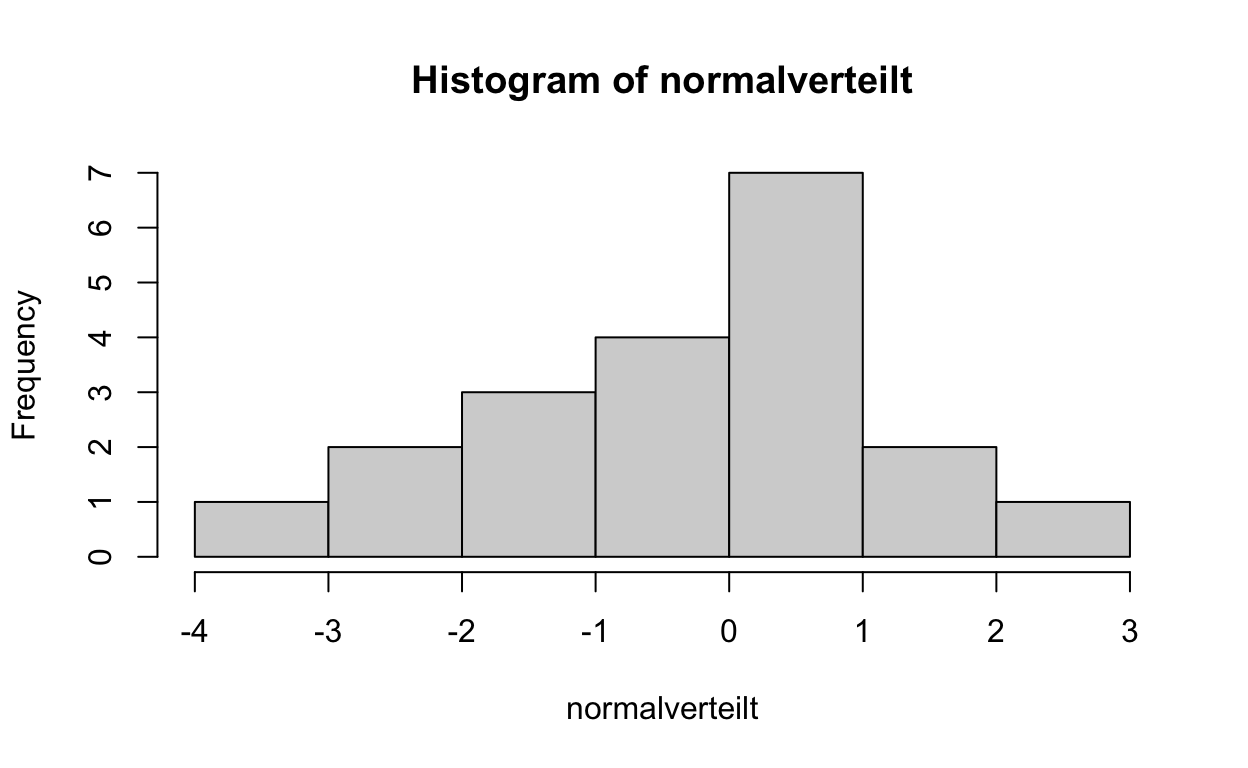
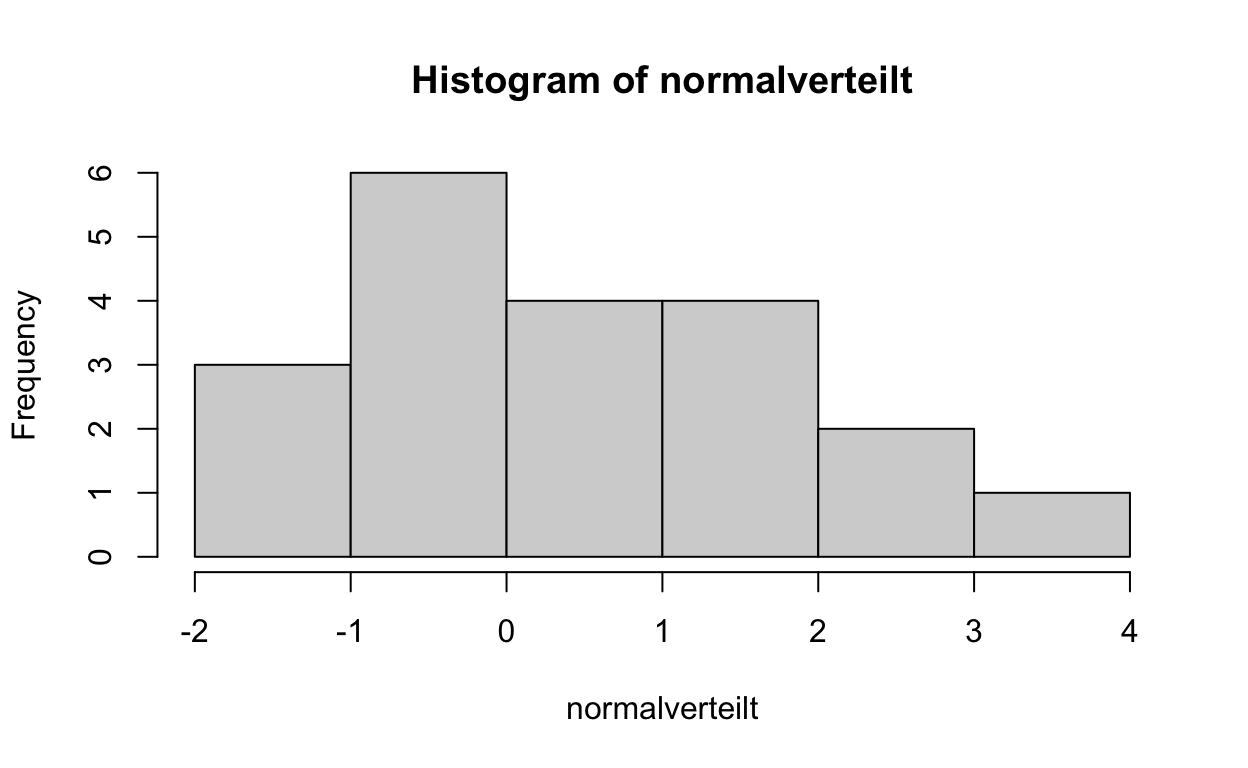
text changes

diff --git a/docs/Basic_R_VariabelsFunctions.html b/docs/Basic_R_VariabelsFunctions.html
@@ -2355,10 +2355,10 @@ $scores
 <div class="sourceCode">
 <pre class="sourceCode r"><code class="sourceCode r"><span><span class='fu'><a href='https://rdrr.io/r/stats/Normal.html'>rnorm</a></span><span class='op'>(</span>n <span class='op'>=</span> <span class='fl'>20</span>, mean <span class='op'>=</span> <span class='fl'>0</span>, sd <span class='op'>=</span> <span class='fl'>1</span><span class='op'>)</span> <span class='co'># randomly draws 20 values from the normal distribution with a mean of 0 and SD of 1</span></span></code></pre>
 </div>
-<pre><code> [1]  0.05563859 -0.68705393  0.17452564 -0.53579695 -2.06295594
- [6] -0.81087247 -0.28872412  1.76084565 -2.34157759 -0.60422497
-[11]  0.41889535 -0.70168969  0.20220263  0.60885878  1.20155105
-[16]  0.03441315 -0.85957818  1.26581442 -1.01452237 -0.64417201</code></pre>
+<pre><code> [1]  0.64184765  0.26744266 -0.17383683 -1.14661811 -0.06813239
+ [6]  1.04923463 -1.70198580  1.22994145  0.03167332  0.46845496
+[11] -0.16551904  1.36607048  0.43773262 -0.49868273 -1.50670372
+[16]  1.78126089 -1.16198737  0.41099855  1.09016245  0.07872775</code></pre>
 </div>
 <ol start="3" type="1">
 <li>Functions can also generate graphics from objects. Creates a histogram from the vector of normally distributed variables.</li>
@@ -2546,8 +2546,10 @@ $punkte
 </div>
 <pre><code>[1]  5 10 15 20 25</code></pre>
 </div>
-<p>Tatsächlich werden wir in R die Funktion “mean” verwenden, um den Durchschnitt oder arithmetischen Mittelwert einer Menge numerischer Werte zu berechnen.</p>
-<p>Sie summiert alle Zahlen in einem Datensatz auf und teilt dann diese Summe durch die Gesamtanzahl der Zahlen.</p>
+<p>Tatsächlich werden wir in R die Funktion “mean” verwenden, um den Durchschnitt oder arithmetischen</p>
+<p>Mittelwert einer Menge numerischer Werte zu berechnen.</p>
+<p>Sie summiert alle Zahlen in einem Datensatz</p>
+<p>auf und teilt dann diese Summe durch die Gesamtanzahl der Zahlen.</p>
 <p>Dadurch erhalten Sie einen einzigen Wert, der die zentrale Tendenz oder den typischen Wert der Daten darstellt.</p>
 <div class="layout-chunk" data-layout="l-body">
 <div class="sourceCode">
@@ -2585,10 +2587,10 @@ Zum Beispiel gibt es Funktionen, die Zufallszahlen erstellen.</p>
 <div class="sourceCode">
 <pre class="sourceCode r"><code class="sourceCode r"><span><span class='fu'><a href='https://rdrr.io/r/stats/Normal.html'>rnorm</a></span><span class='op'>(</span>n <span class='op'>=</span> <span class='fl'>20</span>, mean <span class='op'>=</span> <span class='fl'>0</span>, sd <span class='op'>=</span> <span class='fl'>1</span><span class='op'>)</span> </span></code></pre>
 </div>
-<pre><code> [1] -0.84715937  2.38079066  0.52413922 -0.29629121  0.50584824
- [6]  0.68757879  0.74897692  0.46560084 -0.02365578  1.11315940
-[11]  0.96119036  0.29274064  0.93667254  2.62876125 -0.11417690
-[16] -0.59067436 -1.80084744  0.12937839  0.77175102 -0.45345096</code></pre>
+<pre><code> [1]  0.01692240  1.18788692 -0.19894991 -0.96311866 -0.10104164
+ [6] -0.50489068 -0.08422630  0.44284054  0.60442165 -0.04383999
+[11] -0.73716660  0.27321163 -0.78625520  0.14744392  0.64963851
+[16] -0.67516937 -2.10615118 -0.67585012  0.71168925 -0.55132087</code></pre>
 </div>
 <ol start="3" type="1">
 <li>The hist() function creates a histogram from the vector of normally distributed variables. This is an example of how functions can also generate graphics from objects.</li>
